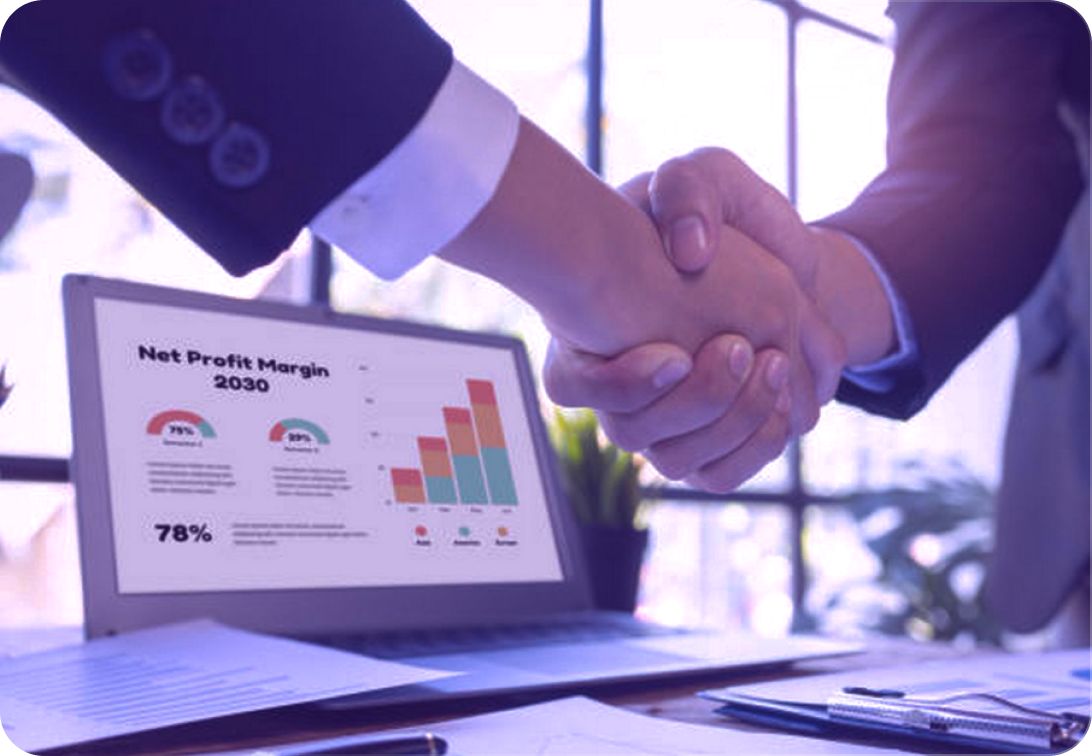
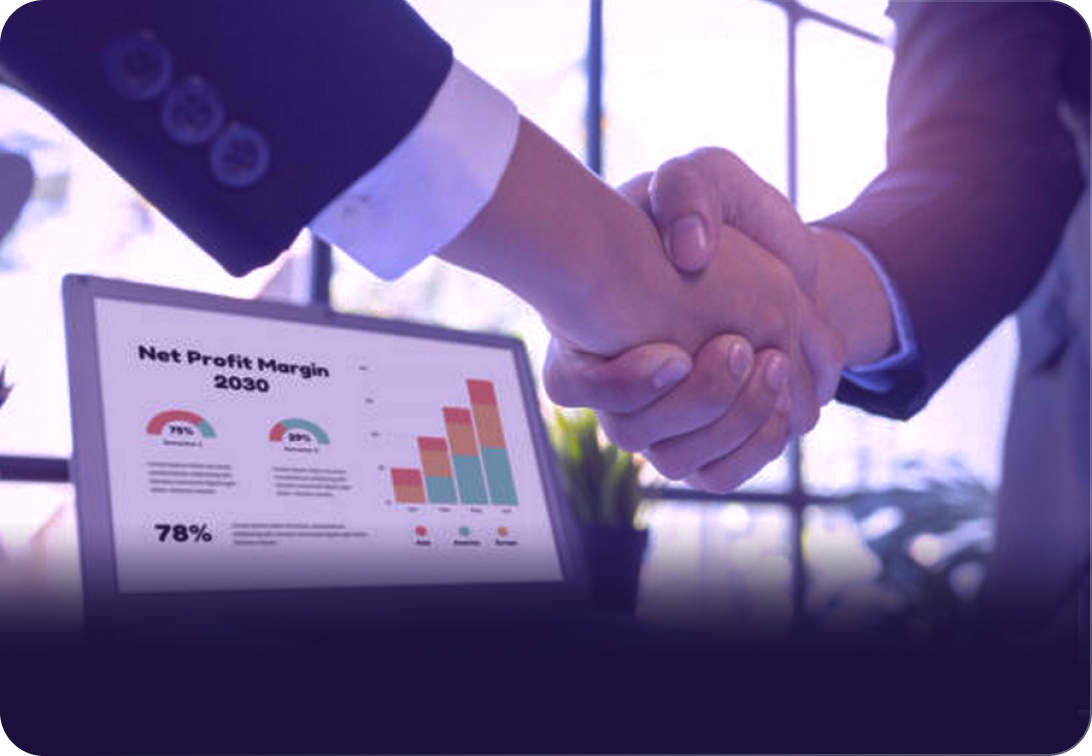
update our service header background , about us page image

Changed region(s): [[0.0, 0.6997, 1.0, 1.0]]

diff --git a/frontend/src/pages/OurService/PageLink.tsx b/frontend/src/pages/OurService/PageLink.tsx
@@ -64,8 +64,12 @@ export default function BasicTabs() {
         maxWidth={"1081px"}
         sx={{
           border: "1px solid white",
-          background:
-            "linear-gradient(rgba(189, 204, 231, 0.6), rgba(71, 53, 144, 0.08))",
+          backgroundColor:"#070417",
+          // background:
+          //   "linear-gradient(rgba(189, 204, 231, 0.6), rgba(71, 53, 144, 0.08))",
+
+          background: "linear-gradient(135deg, rgba(7,4,23,0.95), rgba(61,73,213,0.1))",
+
           backdropFilter: "blur(76.15px)",
           position: "sticky",
           zIndex: 1100,
